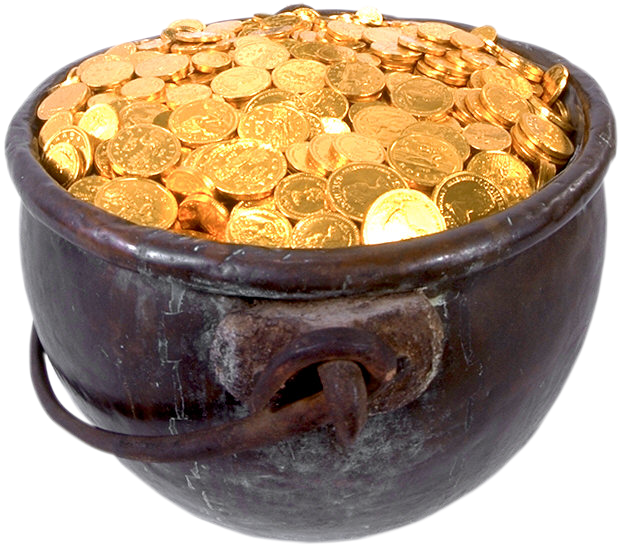
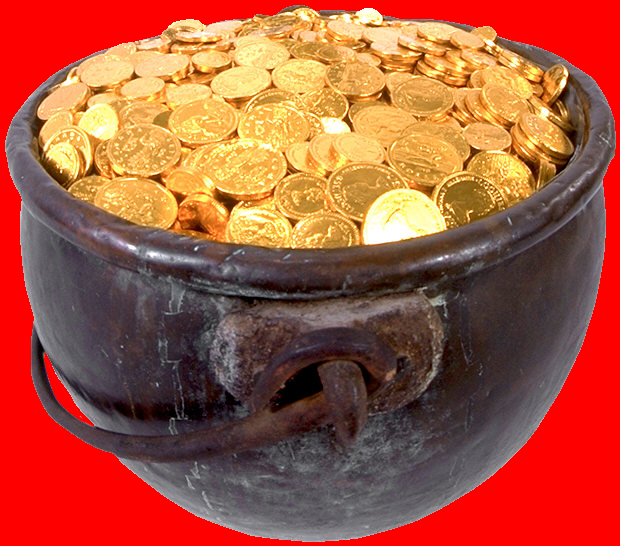
all resources have been added, and lab7.py has been filled out. Currently working.

Changed region(s): [[0.0, 0.0, 1.0, 1.0]]

diff --git a/lab7.py b/lab7.py
@@ -1,0 +1,90 @@
+import os #to allow access to os.path.abspath(__file__) and os.path.dirname
+
+def makeCard():
+  #calls udf (user defined function) that will use setMediaPath() to define the working directory for later use
+  setMediaPathToCurrentDir()
+  
+  background = makePicture(getMediaPath() + "Ireland.jpg")
+  potOfGold = makePicture(getMediaPath() + "pot_of_gold.png")
+  cornerDecor = makePicture(getMediaPath() + "corner_decor.png")
+  
+  card = pyCopyIgnoreColor(shrinkPic(potOfGold), background, 1019, 1069, makeColor(255,0,0))
+  card = pyCopyIgnoreColor(cornerDecor, background, 0, 0, makeColor(255,0,0))
+  card = pyCopyIgnoreColor(horiFlip(cornerDecor), background, 2003, 0, makeColor(255,0,0))
+  card = pyCopyIgnoreColor(vertFlip(horiFlip(cornerDecor)), background, 2003, 1067, makeColor(255,0,0))
+  card = pyCopyIgnoreColor(vertFlip(cornerDecor), background, 0, 1067, makeColor(255,0,0))
+  
+  textStyle = makeStyle(serif, bold, 70)
+  addTextWithStyle(card, 500, 500, "Happy St. Patrick's Day Mom and Dad!", textStyle, makeColor(0, 180, 0))
+    
+  repaint(card)
+  
+  writePictureTo(card, getMediaPath() + "\card.jpg")
+
+def pyCopyIgnoreColor(source, target, targetX, targetY, colorToIgnore):
+  sWidth = getWidth(source)
+  sHeight = getHeight(source)
+  tWidth = getWidth(target)
+  tHeight = getHeight(target)
+  
+  for x in range(0, sWidth):
+    for y in range(0, sHeight):
+      oldPix = getPixel(source, x, y)
+      newX = x + targetX
+      newY = y + targetY
+      #this will allow me to have some of the photos leave the frame a little bit without crashing
+      if (newX < tWidth) and (newX >= 0) and (newY < tHeight) and (newY >= 0):
+        if getColor(oldPix) != colorToIgnore:
+          newPix = getPixel(target, newX, newY)
+          setColor(newPix, getColor(oldPix))
+  return target
+  
+def setMediaPathToCurrentDir():
+  #os.path.abspath(__file__) returns the full path and filename of this file
+  #where as os.path.dirname() strips the filename off of the full path
+  setMediaPath(os.path.dirname(os.path.abspath(__file__)))
+
+def horiFlip(pic):
+  #get dimensions of photo
+  width = getWidth(pic)
+  height = getHeight(pic)
+  #make new photo
+  canvas = makeEmptyPicture(width, height)
+
+  #do the actual copy work
+  for x in range(0, width):
+    for y in range(0, height):
+      oldPix = getPixel(pic, x, y)
+      newPix = getPixel(canvas, x, y)
+      mirrorPix = getPixel(canvas, (width - (x + 1)), y)
+      setColor(mirrorPix, getColor(oldPix))
+  return canvas
+
+def vertFlip(pic):
+  #get dimensions of photo
+  width = getWidth(pic)
+  height = getHeight(pic)
+  #make new photo
+  canvas = makeEmptyPicture(width, height)
+
+  #do the actual copy work
+  for x in range(0, width):
+    for y in range(0, height):
+      oldPix = getPixel(pic, x, y)
+      newPix = getPixel(canvas, x, y)
+      mirrorPix = getPixel(canvas, x, (height - 1) - y)
+      setColor(mirrorPix, getColor(oldPix))
+  return canvas
+  
+def shrinkPic(pic):
+  #get dimensions of photo
+  width = getWidth(pic)
+  height = getHeight(pic)
+  #make new photo
+  canvas = makeEmptyPicture(width/2, height/2)
+  for x in range(0, width, 2):
+    for y in range(0, height, 2):
+      oldPix = getPixel(pic, x, y)
+      newPix = getPixel(canvas, x/2, y/2)
+      setColor(newPix, getColor(oldPix))
+  return canvas
